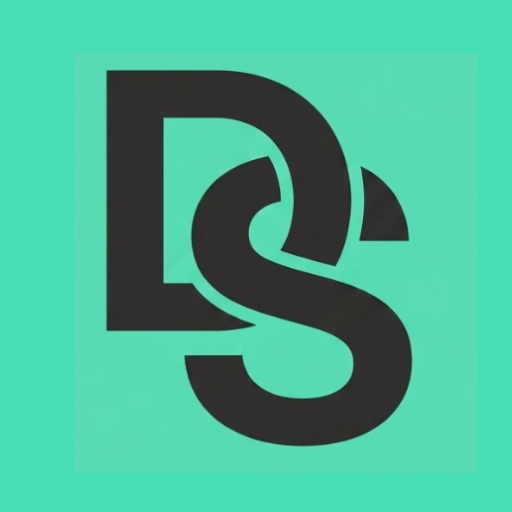
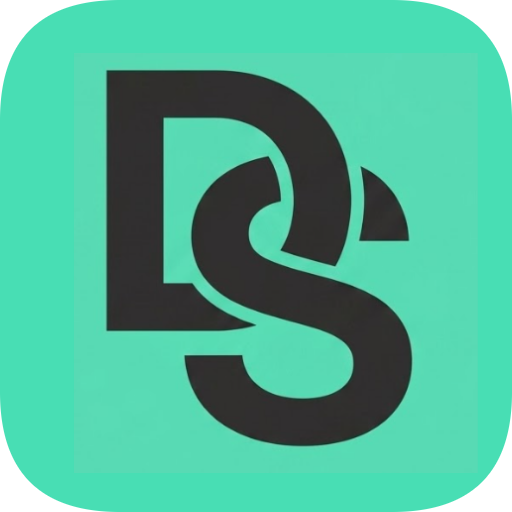
fix(1.4.2): YouTube download → separation flow, scrolling, primary button visibility
Critical
- yt-dlp download never handed off to the separation step. Finalize now triggers on
  'exit' (with a settled guard) in addition to 'close', so a lingering child ffmpeg
  holding the stdio pipes can no longer stall the IPC promise forever.
- Resolve the output file from the '[Merger] Merging formats into "…"' line first,
  then [download] Destination, then a scan of the download dir. Previously the exact
  final path reported by yt-dlp was discarded.
- Clear a stale activeDownload reference (exited/killed proc) so the handler stops
  rejecting every later request with "이미 다운로드 중". Renderer auto-cancels and
  retries once if it still sees that error.
- Download button no longer no-ops: with a valid URL it runs probe automatically,
  otherwise it explains what to do. IPC exceptions are caught and surfaced.
- Same-value input events no longer wipe currentProbe (clipboard auto-detect dispatches
  a synthetic 'input'), which had silently disabled the download button.

UI
- .btn.primary was overridden by `.btn:not(.pri)` and rendered as dark-on-dark, making
  the download / "스템 분리 시작" / updater buttons effectively invisible.
- Separate view could not scroll once content grew: flex column children were shrinking
  instead of overflowing, so scrollHeight never exceeded clientHeight.
- Error box and done card scroll into view instead of appearing off-screen.
- New Dr.studio symbol applied to app icon, in-app header and landing favicon/logo.

Landing
[…]

diff --git a/docs/index.html b/docs/index.html
@@ -150,6 +150,11 @@
   .foot-links{display:flex;gap:18px;align-items:center}
   .foot-links a{color:var(--muted);text-decoration:none;font-size:13px;transition:color .15s}
   .foot-links a:hover{color:var(--tx-1)}
+  /* 다운로드 카운트 pill */
+  .dl-count{display:inline-flex;align-items:center;gap:8px;margin-top:16px;padding:7px 14px;font:600 12.5px/1 var(--mono);color:var(--muted);background:var(--surface);border:1px solid var(--line);border-radius:999px}
+  .dl-count .dot{width:6px;height:6px;border-radius:50%;background:var(--accent);box-shadow:0 0 0 3px color-mix(in srgb,var(--accent) 20%,transparent);animation:dlpulse 2s ease-in-out infinite}
+  .dl-count b{color:var(--tx-1);font-weight:700}
+  @keyframes dlpulse{0%,100%{opacity:.7}50%{opacity:1}}
 
   @media(prefers-reduced-motion:reduce){*{animation:none!important;transition:none!important}}
   .reveal{opacity:0;transform:translateY(12px)}
@@ -173,12 +178,7 @@
   <nav class="nav">
     <div class="wrap nav-in">
       <a class="brand" href="#top">
-        <svg class="mono-logo" viewBox="0 0 32 32" aria-hidden="true">
-          
-          <rect x="1" y="1" width="30" height="30" rx="8" fill="#33cfa3"/>
-          
-          <g fill="#0a1712"><rect x="6.8" y="11.2" width="2.9" height="9.6" rx="1.45"/><rect x="11.4" y="7.3" width="2.9" height="17.4" rx="1.45"/><rect x="16" y="13.6" width="2.9" height="4.8" rx="1.45"/><rect x="20.6" y="9.4" width="2.9" height="13.2" rx="1.45"/></g>
-        </svg><span class="wm">Dr<span class="dot">.</span>studio</span></a>
+        <img class="mono-logo" src="./icon.png" alt="" aria-hidden="true" style="border-radius:7px" /><span class="wm">Dr<span class="dot">.</span>studio</span></a>
       <div class="nav-links">
         <a href="#how" data-i18n="nav.how">사용 방법</a>
         <a href="#features" data-i18n="nav.features">기능</a>
@@ -199,10 +199,11 @@
         <h1 class="title" data-i18n-html="hero.title">곡을 나누고,<br>내 연주를 더해<br><span class="hl">한 곡으로</span> 완성합니다.</h1>
         <p class="lede" data-i18n="hero.lede">유튜브나 내 파일에서 원하는 파트를 분리하고, 원곡 영상을 보며 녹음하고, 다듬어 내보냅니다. 커버 한 곡에 필요한 과정을 한자리에서. 웹의 YT Separator를 데스크톱 앱으로 확장했습니다.</p>
         <div class="cta-row">
-          <a class="btn btn-primary" href="https://github.com/whalemindbass/yt-separator-releases/releases/download/v1.4.0/Dr.studio-Setup.exe" target="_blank" rel="noopener"><svg class="win" viewBox="0 0 16 16" fill="currentColor" aria-hidden="true"><path d="M0 2.3 6.5 1.4v6.1H0zM7.4 1.3 16 0v7.5H7.4zM0 8.5h6.5v6.1L0 13.7zM7.4 8.5H16V16l-8.6-1.2z"/></svg><span data-i18n="hero.ctaDownload">Windows용 다운로드</span></a>
+          <a class="btn btn-primary" href="https://github.com/whalemindbass/yt-separator-releases/releases/download/v1.4.2/Dr.studio-Setup.exe" target="_blank" rel="noopener"><svg class="win" viewBox="0 0 16 16" fill="currentColor" aria-hidden="true"><path d="M0 2.3 6.5 1.4v6.1H0zM7.4 1.3 16 0v7.5H7.4zM0 8.5h6.5v6.1L0 13.7zM7.4 8.5H16V16l-8.6-1.2z"/></svg><span data-i18n="hero.ctaDownload">Windows용 다운로드</span></a>
           <a class="btn btn-ghost" href="#how" data-i18n="hero.ctaHow">사용 방법 보기</a>
         </div>
         <p class="meta" data-i18n-html="hero.meta"><span>무료</span><span>·</span><span>Windows 10 / 11</span><span>·</span><span><b>설치판</b>과 <b>포터블</b></span></p>
+        <div class="dl-count" id="dl-count" hidden><span class="dot"></span><span id="dl-count-txt">로딩 중…</span></div>
       </div>
 
       <div class="shot reveal" aria-hidden="true">
@@ -301,8 +302,8 @@
         <h2 data-i18n="get.title">지금 바로 시작해 보세요</h2>
         <p data-i18n="get.sub">설치판이나 무설치 포터블 중에서 선택하세요.</p>
         <div class="cta-row">
-          <a class="btn btn-primary" href="https://github.com/whalemindbass/yt-separator-releases/releases/download/v1.4.0/Dr.studio-Setup.exe" target="_blank" rel="noopener"><svg class="win" viewBox="0 0 16 16" fill="currentColor" aria-hidden="true"><path d="M0 2.3 6.5 1.4v6.1H0zM7.4 1.3 16 0v7.5H7.4zM0 8.5h6.5v6.1L0 13.7zM7.4 8.5H16V16l-8.6-1.2z"/></svg><span data-i18n="get.ctaSetup">설치판 다운로드</span></a>
-          <a class="btn btn-ghost" href="https://github.com/whalemindbass/yt-separator-releases/releases/download/v1.4.0/Dr.studio.exe" target="_blank" rel="noopener" data-i18n="get.ctaPortable">포터블 버전</a>
+          <a class="btn btn-primary" href="https://github.com/whalemindbass/yt-separator-releases/releases/download/v1.4.2/Dr.studio-Setup.exe" target="_blank" rel="noopener"><svg class="win" viewBox="0 0 16 16" fill="currentColor" aria-hidden="true"><path d="M0 2.3 6.5 1.4v6.1H0zM7.4 1.3 16 0v7.5H7.4zM0 8.5h6.5v6.1L0 13.7zM7.4 8.5H16V16l-8.6-1.2z"/></svg><span data-i18n="get.ctaSetup">설치판 다운로드</span></a>
+          <a class="btn btn-ghost" href="https://github.com/whalemindbass/yt-separator-releases/releases/download/v1.4.2/Dr.studio.exe" target="_blank" rel="noopener" data-i18n="get.ctaPortable">포터블 버전</a>
         </div>
       </div>
     </div>
@@ -342,7 +343,7 @@
 </style>
 
 <script>
-window.I18N = {"ko": {"nav.how": "사용 방법", "nav.features": "기능", "nav.download": "다운로드", "hero.title": "곡을 나누고,<br>내 연주를 더해<br><span class=\"hl\">한 곡으로</span> 완성합니다.", "hero.lede": "유튜브나 내 파일에서 원하는 파트를 분리하고, 원곡 영상을 보며 녹음하고, 다듬어 내보냅니다. 커버 한 곡에 필요한 과정을 한자리에서. 웹의 YT Separator를 데스크톱 앱으로 확장했습니다.", "hero.ctaDownload": "Windows용 다운로드", "hero.ctaHow": "사용 방법 보기", "hero.meta": "<span>무료</span><span>·</span><span>Windows 10 / 11</span><span>·</span><span><b>설치판</b>과 <b>포터블</b></span>", "how.title": "세 단계면 충분합니다", "how.sub": "분리하고, 녹음하고, 내보냅니다. 순서대로 따라가면 커버가 완성됩니다.", "s1h": "분리", "s1p": "원곡을 보컬·드럼·베이스·기타 등 4·6스템으로 나눕니다. 지울 파트와 남길 파트를 먼저 정할 수 있습니다.", "s2h": "녹음과 믹스", "s2p": "원곡 영상을 보며 내 파트를 얹습니다. 저지연 모니터링과 VST 이펙트, 트랙별 볼륨으로 소리를 정리합니다.", "s3h": "내보내기", "s3p": "편집한 뒤 원하는 구간만 골라 저장합니다. 전체 믹스와 내 트랙만 중에서 선택해 WAV·MP3로.", "feat.title": "커버 작업에 필요한 도구", "feat.sub": "연습부터 완성까지, 데스크톱 성능으로 한자리에서.", "f1h": "스템 분리", "f1p": "4·6스템, GPU 또는 CPU로. 로컬 파일도 인터넷 없이 처리합니다.", "f2h": "영상 보며 녹음", "f2p": "원곡 영상과 맞춰진 타임라인에서 내 연주를 그대로 얹습니다.", "f3h": "저지연 모니터링", "f3p": "ASIO로 연주하는 즉시 들립니다. 밀리초 단위의 반응.", "f4h": "VST3 이펙트", "f4p": "내 플러그인을 트랙마다 체인으로. 프리셋을 저장해 다시 씁니다.", "f5h": "내장 튜너", "f5p": "정밀한 음정 검출과 A4 기준음 선택. 저음까지 안정적으로.", "f6h": "믹싱과 페이더", "f6p": "마스터·트랙 볼륨, 뮤트와 솔로, 스템 믹스까지 프로젝트에 담깁니다.", "f7h": "정밀 편집", "f7p": "트림·분할·페이드와 실행취소, BPM 감지로 그리드에 맞춥니다.", "f8h": "내보내기", "f8p": "WAV·FLAC·MP3, 품질과 구간을 골라. 전체 믹스 또는 내 트랙만.", "f9h": "프로젝트 저장", "f9p": "스템·클립·이펙트·믹스를 하나로. 저장한 그대로 다시 엽니다.", "demo.title": "각 악기를 마음대로 켜고 끄세요", "demo.sub": "\"Sound of Morning\" · AI 생성 데모 · 6스템이 한 박자로 재생됩니다.", "demo.trackSub": "AI 생성 데모", "demo.statusIdle": "재생 버튼을 눌러 시작하세요", "demo.loading": "로딩 중…", "demo.allPlaying": "6개 트랙 모두 재생 중", "demo.nPlaying": "%n개 트랙 재생 중", "demo.paused": "일시정지", "demo.err": "오디오 재생 불가: ", "stem.vocals": "보컬", "stem.drums": "드럼", "stem.bass": "베이스", "stem.guitar": "기타", "stem.piano": "피아노", "stem.other": "그외", "lane.vocals": "보컬", "lane.drums": "드럼", "lane.bass": "베이스", "lane.guitar": "기타", "lane.myrec": "내 녹음", "get.title": "지금 바로 시작해 보세요", "get.sub": "설치판이나 무설치 포터블 중에서 선택하세요.", "get.ctaSetup": "설치판 다운로드", "get.ctaPortable": "포터블 버전", "footer.privacy": "개인정보 처리방침", "footer.contact": "문의", "footer.note": "YT Separator 기반 · © 2026 Whale Mind"}, "en": {"nav.how": "How", "nav.features": "Features", "nav.download": "Download", "hero.title": "Split the song,<br>add your part,<br>and make it <span class=\"hl\">one track</span>.", "hero.lede": "Separate the parts you want from YouTube or your own files, record along with the video, then polish and export. Everything a cover takes, in one place. The web YT Separator, grown into a desktop app.", "hero.ctaDownload": "Download for Windows", "hero.ctaHow": "See how it works", "hero.meta": "<span>Free</span><span>·</span><span>Windows 10 / 11</span><span>·</span><span><b>Installer</b> & <b>Portable</b></span>", "how.title": "Three steps is all it takes", "how.sub": "Separate, record, export. Follow them in order and your cover is done.", "s1h": "Separate", "s1p": "Split the original into 4 or 6 stems — vocals, drums, bass, guitar and more. Decide what to drop and what to keep first.", "s2h": "Record & Mix", "s2p": "Lay your part over the original video. Low-latency monitoring, VST effects and per-track volume to shape the sound.", "s3h": "Export", "s3p": "Edit, then pick just the section you want. Choose the full mix or only your tracks, as WAV or MP3.", "feat.title": "Everything a cover takes", "feat.sub": "From practice to finish — in one place, with desktop power.", "f1h": "Stem separation", "f1p": "4 or 6 stems, on GPU or CPU. Local files work with no internet.", "f2h": "Record with the video", "f2p": "Lay your take on a timeline synced to the original video.", "f3h": "Low-latency monitoring", "f3p": "Hear yourself the instant you play, via ASIO. Millisecond response.", "f4h": "VST3 effects", "f4p": "Chain your own plugins per track. Save presets and reuse them.", "f5h": "Built-in tuner", "f5p": "Precise pitch detection with A4 reference. Stable down to the low end.", "f6h": "Mixing & faders", "f6p": "Master and track volume, mute and solo, stem mix — all saved to the project.", "f7h": "Precise editing", "f7p": "Trim, split, fade and undo. BPM detection snaps to the grid.", "f8h": "Export", "f8p": "WAV, FLAC or MP3 — choose quality and range. Full mix or your tracks only.", "f9h": "Save projects", "f9p": "Stems, clips, effects and mix in one file. Reopen exactly as you left it.", "demo.title": "Toggle each instrument on and off", "demo.sub": "\"Sound of Morning\" · AI-generated demo · 6 stems play in perfect sync.", "demo.trackSub": "AI-generated demo", "demo.statusIdle": "Press play to start", "demo.loading": "Loading…", "demo.allPlaying": "All 6 tracks playing", "demo.nPlaying": "%n tracks playing", "demo.paused": "Paused", "demo.err": "Playback failed: ", "stem.vocals": "Vocals", "stem.drums": "Drums", "stem.bass": "Bass", "stem.guitar": "Guitar", "stem.piano": "Piano", "stem.other": "Other", "lane.vocals": "Vocals", "lane.drums": "Drums", "lane.bass": "Bass", "lane.guitar": "Guitar", "lane.myrec": "My take", "get.title": "Get started now", "get.sub": "Choose the installer or the no-install portable build.", "get.ctaSetup": "Download installer", "get.ctaPortable": "Portable build", "footer.privacy": "Privacy", "footer.contact": "Contact", "footer.note": "Based on YT Separator · © 2026 Whale Mind"}};
+window.I18N = {"ko": {"nav.how": "사용 방법", "nav.features": "기능", "nav.download": "다운로드", "hero.title": "곡을 나누고,<br>내 연주를 더해<br><span class=\"hl\">한 곡으로</span> 완성합니다.", "hero.lede": "유튜브나 내 파일에서 원하는 파트를 분리하고, 원곡 영상을 보며 녹음하고, 다듬어 내보냅니다. 커버 한 곡에 필요한 과정을 한자리에서. 웹의 YT Separator를 데스크톱 앱으로 확장했습니다.", "hero.ctaDownload": "Windows용 다운로드", "hero.ctaHow": "사용 방법 보기", "hero.meta": "<span>무료</span><span>·</span><span>Windows 10 / 11</span><span>·</span><span><b>설치판</b>과 <b>포터블</b></span>", "how.title": "세 단계면 충분합니다", "how.sub": "분리하고, 녹음하고, 내보냅니다. 순서대로 따라가면 커버가 완성됩니다.", "s1h": "분리", "s1p": "원곡을 보컬·드럼·베이스·기타 등 4·6스템으로 나눕니다. 지울 파트와 남길 파트를 먼저 정할 수 있습니다.", "s2h": "녹음과 믹스", "s2p": "원곡 영상을 보며 내 파트를 얹습니다. 저지연 모니터링과 VST 이펙트, 트랙별 볼륨으로 소리를 정리합니다.", "s3h": "내보내기", "s3p": "편집한 뒤 원하는 구간만 골라 저장합니다. 전체 믹스와 내 트랙만 중에서 선택해 WAV·MP3로.", "feat.title": "커버 작업에 필요한 도구", "feat.sub": "연습부터 완성까지, 데스크톱 성능으로 한자리에서.", "f1h": "스템 분리", "f1p": "4·6스템, GPU 또는 CPU로. 로컬 파일도 인터넷 없이 처리합니다.", "f2h": "영상 보며 녹음", "f2p": "원곡 영상과 맞춰진 타임라인에서 내 연주를 그대로 얹습니다.", "f3h": "저지연 모니터링", "f3p": "ASIO로 연주하는 즉시 들립니다. 밀리초 단위의 반응.", "f4h": "VST3 이펙트", "f4p": "내 플러그인을 트랙마다 체인으로. 프리셋을 저장해 다시 씁니다.", "f5h": "내장 튜너", "f5p": "정밀한 음정 검출과 A4 기준음 선택. 저음까지 안정적으로.", "f6h": "믹싱과 페이더", "f6p": "마스터·트랙 볼륨, 뮤트와 솔로, 스템 믹스까지 프로젝트에 담깁니다.", "f7h": "정밀 편집", "f7p": "트림·분할·페이드와 실행취소, BPM 감지로 그리드에 맞춥니다.", "f8h": "내보내기", "f8p": "WAV·FLAC·MP3, 품질과 구간을 골라. 전체 믹스 또는 내 트랙만.", "f9h": "프로젝트 저장", "f9p": "스템·클립·이펙트·믹스를 하나로. 저장한 그대로 다시 엽니다.", "demo.title": "각 악기를 마음대로 켜고 끄세요", "demo.sub": "\"Sound of Morning\" · AI 생성 데모 · 6스템이 한 박자로 재생됩니다.", "demo.trackSub": "AI 생성 데모", "demo.statusIdle": "재생 버튼을 눌러 시작하세요", "demo.loading": "로딩 중…", "demo.allPlaying": "6개 트랙 모두 재생 중", "demo.nPlaying": "%n개 트랙 재생 중", "demo.paused": "일시정지", "demo.err": "오디오 재생 불가: ", "stem.vocals": "보컬", "stem.drums": "드럼", "stem.bass": "베이스", "stem.guitar": "기타", "stem.piano": "피아노", "stem.other": "그외", "lane.vocals": "보컬", "lane.drums": "드럼", "lane.bass": "베이스", "lane.guitar": "기타", "lane.myrec": "내 녹음", "get.title": "지금 바로 시작해 보세요", "get.sub": "설치판이나 무설치 포터블 중에서 선택하세요.", "get.ctaSetup": "설치판 다운로드", "get.ctaPortable": "포터블 버전", "dl.count": "이미 <b>%n</b>명이 다운로드했어요", "footer.privacy": "개인정보 처리방침", "footer.contact": "문의", "footer.note": "YT Separator 기반 · © 2026 Whale Mind"}, "en": {"nav.how": "How", "nav.features": "Features", "nav.download": "Download", "hero.title": "Split the song,<br>add your part,<br>and make it <span class=\"hl\">one track</span>.", "hero.lede": "Separate the parts you want from YouTube or your own files, record along with the video, then polish and export. Everything a cover takes, in one place. The web YT Separator, grown into a desktop app.", "hero.ctaDownload": "Download for Windows", "hero.ctaHow": "See how it works", "hero.meta": "<span>Free</span><span>·</span><span>Windows 10 / 11</span><span>·</span><span><b>Installer</b> & <b>Portable</b></span>", "how.title": "Three steps is all it takes", "how.sub": "Separate, record, export. Follow them in order and your cover is done.", "s1h": "Separate", "s1p": "Split the original into 4 or 6 stems — vocals, drums, bass, guitar and more. Decide what to drop and what to keep first.", "s2h": "Record & Mix", "s2p": "Lay your part over the original video. Low-latency monitoring, VST effects and per-track volume to shape the sound.", "s3h": "Export", "s3p": "Edit, then pick just the section you want. Choose the full mix or only your tracks, as WAV or MP3.", "feat.title": "Everything a cover takes", "feat.sub": "From practice to finish — in one place, with desktop power.", "f1h": "Stem separation", "f1p": "4 or 6 stems, on GPU or CPU. Local files work with no internet.", "f2h": "Record with the video", "f2p": "Lay your take on a timeline synced to the original video.", "f3h": "Low-latency monitoring", "f3p": "Hear yourself the instant you play, via ASIO. Millisecond response.", "f4h": "VST3 effects", "f4p": "Chain your own plugins per track. Save presets and reuse them.", "f5h": "Built-in tuner", "f5p": "Precise pitch detection with A4 reference. Stable down to the low end.", "f6h": "Mixing & faders", "f6p": "Master and track volume, mute and solo, stem mix — all saved to the project.", "f7h": "Precise editing", "f7p": "Trim, split, fade and undo. BPM detection snaps to the grid.", "f8h": "Export", "f8p": "WAV, FLAC or MP3 — choose quality and range. Full mix or your tracks only.", "f9h": "Save projects", "f9p": "Stems, clips, effects and mix in one file. Reopen exactly as you left it.", "demo.title": "Toggle each instrument on and off", "demo.sub": "\"Sound of Morning\" · AI-generated demo · 6 stems play in perfect sync.", "demo.trackSub": "AI-generated demo", "demo.statusIdle": "Press play to start", "demo.loading": "Loading…", "demo.allPlaying": "All 6 tracks playing", "demo.nPlaying": "%n tracks playing", "demo.paused": "Paused", "demo.err": "Playback failed: ", "stem.vocals": "Vocals", "stem.drums": "Drums", "stem.bass": "Bass", "stem.guitar": "Guitar", "stem.piano": "Piano", "stem.other": "Other", "lane.vocals": "Vocals", "lane.drums": "Drums", "lane.bass": "Bass", "lane.guitar": "Guitar", "lane.myrec": "My take", "get.title": "Get started now", "get.sub": "Choose the installer or the no-install portable build.", "get.ctaSetup": "Download installer", "get.ctaPortable": "Portable build", "dl.count": "<b>%n</b>+ downloads and counting", "footer.privacy": "Privacy", "footer.contact": "Contact", "footer.note": "Based on YT Separator · © 2026 Whale Mind"}};
 window.LANG = localStorage.getItem('drlang') || ((navigator.language||'en').slice(0,2)==='ko'?'ko':'en');
 window.tr = function(k){ var d=window.I18N[window.LANG]||window.I18N.ko; return d[k]!=null?d[k]:(window.I18N.ko[k]!=null?window.I18N.ko[k]:k); };
 window.applyLang = function(l){
@@ -419,11 +420,7 @@ window.applyLang = function(l){
   <footer>
     <div class="wrap foot-in">
       <span class="brand" style="font-size:15px">
-        <svg class="mono-logo" style="width:26px;height:26px" viewBox="0 0 32 32" aria-hidden="true">
-          <rect x="1" y="1" width="30" height="30" rx="8" fill="#33cfa3"/>
-          
-          <g fill="#0a1712"><rect x="6.8" y="11.2" width="2.9" height="9.6" rx="1.45"/><rect x="11.4" y="7.3" width="2.9" height="17.4" rx="1.45"/><rect x="16" y="13.6" width="2.9" height="4.8" rx="1.45"/><rect x="20.6" y="9.4" width="2.9" height="13.2" rx="1.45"/></g>
-        </svg><span class="wm">Dr<span class="dot">.</span>studio</span></span>
+        <img class="mono-logo" style="width:26px;height:26px;border-radius:6px" src="./icon.png" alt="" aria-hidden="true" /><span class="wm">Dr<span class="dot">.</span>studio</span></span>
       <nav class="foot-links">
         <a href="./privacy.html" data-i18n="footer.privacy">개인정보 처리방침</a>
         <a href="mailto:whalemindbass@gmail.com" data-i18n="footer.contact">문의</a>
@@ -466,6 +463,32 @@ window.applyLang = function(l){
       clip.style.color=c;clip.innerHTML=wave(c);
       area.appendChild(clip);lane.appendChild(area);host.appendChild(lane);
     });
+  })();
+
+  // 다운로드 카운트 — 모든 릴리즈의 .exe + .onnx 합산 (자연 뻥튀기)
+  (async () => {
+    const el = document.getElementById('dl-count');
+    const txt = document.getElementById('dl-count-txt');
+    if (!el || !txt) return;
+    try {
+      const r = await fetch('https://api.github.com/repos/whalemindbass/yt-separator-releases/releases?per_page=100');
+      if (!r.ok) return;
+      const rels = await r.json();
+      if (!Array.isArray(rels) || !rels.length) return;
+      let total = 0;
+      for (const rel of rels)
+        for (const a of (rel.assets || []))
+          if (/\.(exe|onnx)$/i.test(a.name)) total += (a.download_count || 0);
+      if (total <= 0) return;
+      el.hidden = false;
+      const render = () => {
+        const key = window.tr ? window.tr('dl.count') : '이미 <b>%n</b>명이 다운로드했어요';
+        txt.innerHTML = key.replace('%n', total.toLocaleString());
+      };
+      render();
+      const origApply = window.applyLang;   // 언어 전환 시 재렌더
+      if (origApply) window.applyLang = function(l){ origApply(l); render(); };
+    } catch {}
   })();
 </script>
 

diff --git a/main.js b/main.js
@@ -59,6 +59,9 @@ const YTDLP_BIN  = vendorPath('yt-dlp', 'yt-dlp.exe');
 const FFMPEG_BIN = vendorPath('ffmpeg', 'ffmpeg.exe');
 const FFMPEG_DIR = vendorPath('ffmpeg');
 
+// 진단 로그 — main 프로세스 콘솔에만. 파일 기록·렌더러 전달 없음
+function dlog(...args) { console.log(...args); }
+
 // ── 사용자 설정 (userData/settings.json) ────────────────
 function settingsFile() { return path.join(app.getPath('userData'), 'settings.json'); }
 function readSettings() {
@@ -619,7 +622,14 @@ ipcMain.handle('ytdlp:probe', async (_ev, url) => {
 let activeDownload = null;
 
 ipcMain.handle('ytdlp:download', async (_ev, url, opts = {}) => {
-  if (activeDownload) return { ok: false, error: '이미 다운로드 중입니다' };
+  // 스테일 참조 정리 — 이전 proc 이 이미 죽었지만 close 이벤트가 lost 된 경우 방어
+  if (activeDownload && (activeDownload.exitCode !== null || activeDownload.killed || !activeDownload.pid)) {
+    activeDownload = null;
+  }
+  if (activeDownload) {
+    dlog('[yt-dlp] busy — pid=' + activeDownload.pid + ' exitCode=' + activeDownload.exitCode);
+    return { ok: false, error: '이미 다운로드 중입니다 (진행 취소 후 재시도)' };
+  }
   if (typeof url !== 'string' || !/^https?:\/\//.test(url)) {
     return { ok: false, error: '올바른 URL이 아닙니다' };
   }
@@ -653,6 +663,7 @@ ipcMain.handle('ytdlp:download', async (_ev, url, opts = {}) => {
     let phase = 'video'; // yt-dlp는 video 다음에 audio 처리
     const send = (data) => { try { mainWindow?.webContents?.send('ytdlp:progress', data); } catch {} };
 
+    let mergedFile = null;   // [Merger] 가 알려주는 최종 결과 경로 (가장 신뢰도 높음)
     proc.stdout.on('data', (chunk) => {
       String(chunk).split(/\r?\n/).forEach((line) => {
         if (!line) return;
@@ -672,6 +683,9 @@ ipcMain.handle('ytdlp:download', async (_ev, url, opts = {}) => {
           } catch {}
         } else if (/^\[Merger\]/.test(line)) {
           phase = 'merge';
+          // [Merger] Merging formats into "C:\path\file.mp4"
+          const m = line.match(/into\s+"([^"]+)"/);
+          if (m) mergedFile = m[1];
           send({ phase: 'merge', ratio: 0.98 });
         } else if (/^\[download\] Destination: /.test(line)) {
           // "video"→"audio" 전환 감지
@@ -680,29 +694,76 @@ ipcMain.handle('ytdlp:download', async (_ev, url, opts = {}) => {
         }
       });
     });
+    let stderrBuf = '', stdoutTail = '';   // 실패 시 원인 파악용
     proc.stderr.on('data', (d) => {
       const s = String(d);
-      // yt-dlp의 안내/에러 로그
+      stderrBuf += s; if (stderrBuf.length > 4000) stderrBuf = stderrBuf.slice(-4000);
       if (/ERROR|error/i.test(s)) send({ phase: 'error', message: s.slice(0, 500) });
     });
-    proc.on('close', (code) => {
-      activeDownload = null;
-      if (code !== 0) return resolve({ ok: false, error: `yt-dlp exit ${code}` });
-      // 우리가 지정한 base로 시작하는 파일 찾기
+    proc.stdout.on('data', (d) => {
+      const s = String(d);
+      stdoutTail += s; if (stdoutTail.length > 4000) stdoutTail = stdoutTail.slice(-4000);
+      // 진행률 라인 아닌 실제 로그만 콘솔 (PROG spam 방지)
+    });
+    // 결과 파일 확정 — [Merger] 경로 > [download] Destination > outDir 스캔 순으로 신뢰
+    const resolveOutputFile = () => {
+      for (const cand of [mergedFile, lastFile]) {
+        if (!cand) continue;
+        const p = path.isAbsolute(cand) ? cand : path.join(outDir, cand);
+        if (fs.existsSync(p) && /\.(mp4|mkv|webm|m4a|mp3|wav)$/i.test(p)) return p;
+      }
+      // 폴백 1: base 로 시작하는 파일. 폴백 2: outDir 에서 가장 최근 미디어 파일
       try {
-        const files = fs.readdirSync(outDir)
-          .filter((f) => f.startsWith(base) && /\.(mp4|mkv|webm)$/i.test(f))
+        const media = fs.readdirSync(outDir)
+          .filter((f) => /\.(mp4|mkv|webm)$/i.test(f))
           .map((f) => ({ f, m: fs.statSync(path.join(outDir, f)).mtimeMs }))
           .sort((a, b) => b.m - a.m);
-        const filePath = files[0] ? path.join(outDir, files[0].f) : null;
+        const byBase = media.find((x) => x.f.startsWith(base));
+        const pick = byBase || media[0];
+        // 폴백 2는 방금(2분 이내) 생성된 것만 채택 — 엉뚱한 옛 파일 반환 방지
+        if (pick && (byBase || Date.now() - pick.m < 120000)) return path.join(outDir, pick.f);
+      } catch {}
+      return null;
+    };
+
+    // close 는 자식(ffmpeg)이 파이프를 물고 있으면 영영 안 올 수 있음 → exit 로 확정하고 grace 만 줌
+    let settled = false;
+    const finalize = (code, why) => {
+      if (settled) return;
+      settled = true;
+      activeDownload = null;
+      if (code !== 0) {
+        const errTail = (stderrBuf || stdoutTail || '').split(/\r?\n/).filter(l => l.trim()).slice(-8).join(' | ');
+        const msg = `yt-dlp exit ${code}${errTail ? ' — ' + errTail : ''}`;
+        dlog('[yt-dlp] FAILED:', msg);
+        send({ phase: 'error', message: msg.slice(0, 800) });
+        return resolve({ ok: false, error: msg.slice(0, 800) });
+      }
+      try {
+        const filePath = resolveOutputFile();
+        if (!filePath) {
+          const msg = `다운로드는 끝났지만 결과 파일을 찾지 못함 (base="${base}", dir="${outDir}")`;
+          dlog('[yt-dlp]', msg);
+          send({ phase: 'error', message: msg });
+          return resolve({ ok: false, error: msg });
+        }
         send({ phase: 'done', ratio: 1, filePath });
         resolve({ ok: true, filePath });
       } catch (err) {
+        dlog('[yt-dlp] finalize error:', String(err));
         resolve({ ok: false, error: err.message });
       }
-    });
+    };
+
+    // exit = 프로세스 종료 즉시. stdout 잔여 flush 위해 250ms 만 기다렸다 확정
+    proc.on('exit', (code) => setTimeout(() => finalize(code ?? 0, 'exit'), 250));
+    // close 가 먼저 오면 그걸로 확정 (정상 케이스)
+    proc.on('close', (code) => finalize(code ?? 0, 'close'));
     proc.on('error', (err) => {
+      if (settled) return;
+      settled = true;
       activeDownload = null;
+      dlog('[yt-dlp] spawn error:', String(err));
       resolve({ ok: false, error: err.message });
     });
   });

diff --git a/renderer/scripts/app.js b/renderer/scripts/app.js
@@ -531,6 +531,8 @@ let lastRegisteredId = null;
 function setError(msg) {
   if (!msg) { errBox.hidden = true; errBox.textContent = ''; return; }
   errBox.hidden = false; errBox.textContent = msg;
+  // 화면 밖(하단)에 떠서 못 보는 일 방지 — 항상 보이게 스크롤
+  try { errBox.scrollIntoView({ behavior: 'smooth', block: 'center' }); } catch {}
 }
 function isValidUrl(s) { return /^https?:\/\/[^\s]+$/.test(s.trim()); }
 function fmtDuration(sec) {
@@ -551,6 +553,8 @@ const existingSub    = $('existing-banner-sub');
 const existingOpen   = $('existing-open-btn');
 let existingLibItemId = null;
 
+// probe 성공한 URL — 동일 값 input 이벤트로 상태 날리지 않기 위한 기준
+let probedUrl = '';
 function resetSeparateView(alsoClearUrl = false) {
   if (alsoClearUrl) { urlInput.value = ''; lastClipboardSeen = ''; }
   probeBtn.disabled = !isValidUrl(urlInput.value);
@@ -567,10 +571,19 @@ function resetSeparateView(alsoClearUrl = false) {
   currentBaseName = null;
   existingLibItemId = null;
   lastRegisteredId = null;
+  probedUrl = '';
 }
 
-urlInput.addEventListener('input', () => resetSeparateView(false));
-$('reset-btn').addEventListener('click', () => { resetSeparateView(true); urlInput.focus(); });
+// URL 이 실제로 바뀐 경우에만 초기화 — 클립보드 자동감지가 dispatch 하는 합성 input 이벤트나
+// 값이 그대로인 input 으로 currentProbe 가 날아가서 "다운로드 눌러도 무반응" 되던 문제 방지
+urlInput.addEventListener('input', () => {
+  if (urlInput.value.trim() === probedUrl && probedUrl) { probeBtn.disabled = false; return; }
+  resetSeparateView(false);
+});
+$('reset-btn').addEventListener('click', async () => {
+  try { await api.ytdlp.cancel(); } catch {}   // 백엔드 프로세스 잔재 청소 (activeDownload 스테일 방지)
+  resetSeparateView(true); urlInput.focus();
+});
 
 // ── 로컬 파일로 분리 ─────────────────────────────
 $('local-btn').addEventListener('click', async () => {
@@ -639,6 +652,7 @@ probeBtn.addEventListener('click', async () => {
     return;
   }
   currentProbe = res.info;
+  probedUrl = url;              // 이 URL 로 probe 성공 — 동일 값 input 이벤트로는 리셋 안 함
   renderProbe(res.info);
   dlBtn.disabled = false;
 
@@ -688,7 +702,15 @@ const phaseLabelsDl = () => ({
 let unsubProgress = null;
 
 dlBtn.addEventListener('click', async () => {
-  if (!currentProbe) return;
+  // 무반응 금지 — 상태 없으면 이유를 알려주고, URL 있으면 probe 부터 자동 수행
+  if (!currentProbe) {
+    const u = urlInput.value.trim();
+    if (isValidUrl(u)) { setError(''); probeBtn.click(); return; }
+    setError(getLocale() === 'en'
+      ? 'Paste a YouTube URL and press 확인 (Check) first.'
+      : '먼저 YouTube 주소를 붙여넣고 “확인”을 눌러 주세요.');
+    return;
+  }
   setError('');
   doneCard.hidden = true; stemsDone.hidden = true;
   progWrap.hidden = false;
@@ -715,18 +737,28 @@ dlBtn.addEventListener('click', async () => {
     if (p.speed) progSpeed.textContent = fmtBytes(p.speed) + '/s';
   });
 
-  const res = await api.ytdlp.download(urlInput.value.trim(), {
-    title: currentProbe?.title, id: currentProbe?.id, quality: currentQuality,
-  });
+  const opts = { title: currentProbe?.title, id: currentProbe?.id, quality: currentQuality };
+  let res;
+  try {
+    res = await api.ytdlp.download(urlInput.value.trim(), opts);
+    // 백엔드가 "이미 다운로드 중" 이면 잔재 프로세스 정리 후 1회 자동 재시도
+    if (res && !res.ok && /이미 다운로드 중/.test(res.error || '')) {
+      try { await api.ytdlp.cancel(); } catch {}
+      res = await api.ytdlp.download(urlInput.value.trim(), opts);
+    }
+  } catch (e) {
+    res = { ok: false, error: 'IPC 실패: ' + (e && e.message || e) };
+  }
   unsubProgress?.(); unsubProgress = null;
   cancelBtn.hidden = true;
   dlBtn.disabled = false; probeBtn.disabled = false; urlInput.disabled = false;
 
-  if (!res.ok) { setError(t('err.dlpFailed') + ': ' + res.error); progWrap.hidden = true; return; }
+  if (!res || !res.ok) { setError(t('err.dlpFailed') + ': ' + (res?.error || 'unknown')); progWrap.hidden = true; return; }
   currentVideoPath = res.filePath;
   currentBaseName = res.filePath.replace(/^.*[\\/]/, '').replace(/\.[^.]+$/, '');
   donePath.textContent = res.filePath;
   doneCard.hidden = false;
+  try { doneCard.scrollIntoView({ behavior: 'smooth', block: 'center' }); } catch {}
   progWrap.hidden = true;   // 다운로드 progress 는 완료됐으니 감춤 — done-card 만 남겨 흐름 명확화
 });
 

diff --git a/renderer/styles/app.css b/renderer/styles/app.css
@@ -336,6 +336,9 @@ body { display: flex; flex-direction: column; }
   width: 100%;
   margin: 0 auto;
 }
+/* flex column 컨테이너에서 자식이 기본 shrink 되면 내용이 넘쳐도 scrollHeight 가 안 커져
+   스크롤이 죽는다 → 분리 뷰 자식은 shrink 금지 (진행/완료 카드가 늘어나도 스크롤 가능) */
+.body[data-view="separate"] > * { flex-shrink: 0; }
 
 /* Hero */
 .hero h2 {
@@ -393,8 +396,8 @@ body { display: flex; flex-direction: column; }
   font-weight: 600;
 }
 .btn.primary:hover:not(:disabled) { background: var(--accent-hover); color: var(--accent-fg); }
-/* 비활성 프라이머리 = 죽은 초록 블록 대신 중립(명확히 비활성) */
-.btn.primary:disabled { background: var(--elev); color: var(--tx-3); border-color: var(--border); opacity: 1; }
+/* 비활성 프라이머리 — 살짝 어두운 accent tint + 밝은 텍스트로 가독성 확보 */
+.btn.primary:disabled { background: color-mix(in srgb, var(--accent) 20%, var(--elev)); color: color-mix(in srgb, var(--accent-fg) 55%, var(--tx-1)); border-color: color-mix(in srgb, var(--accent) 25%, transparent); opacity: 1; }
 
 .link-btn {
   background: none; border: 0;
@@ -2612,11 +2615,11 @@ body { background: var(--bg) !important; }
 
 /* 버튼 — 플랫 + hover/포커스 */
 .btn, .mini, .daw .btn { transition: background .14s var(--ease), border-color .14s var(--ease), transform .08s var(--ease), box-shadow .14s var(--ease); }
-.btn:not(.pri):not(.icon) { background: var(--elev); border: 1px solid var(--border-mid); }
-.btn:not(.pri):hover:not(:disabled) { border-color: color-mix(in srgb, var(--accent) 40%, var(--border-mid)); background: var(--elev-2); }
+.btn:not(.pri):not(.primary):not(.icon) { background: var(--elev); border: 1px solid var(--border-mid); }
+.btn:not(.pri):not(.primary):hover:not(:disabled) { border-color: color-mix(in srgb, var(--accent) 40%, var(--border-mid)); background: var(--elev-2); }
 .btn:active:not(:disabled) { transform: translateY(.5px); }
-.btn.pri { background: var(--accent); box-shadow: none; }
-.btn.pri:hover:not(:disabled) { background: var(--accent-hover); }
+.btn.pri, .btn.primary { background: var(--accent); color: var(--accent-fg); box-shadow: none; }
+.btn.pri:hover:not(:disabled), .btn.primary:hover:not(:disabled) { background: var(--accent-hover); }
 .btn:focus-visible, .pill:focus-visible, .tab:focus-visible { outline: none; box-shadow: 0 0 0 2px var(--bg), 0 0 0 4px color-mix(in srgb, var(--accent) 60%, transparent); }
 
 /* 입력 — 파인 면 + accent 포커스 글로우 */
